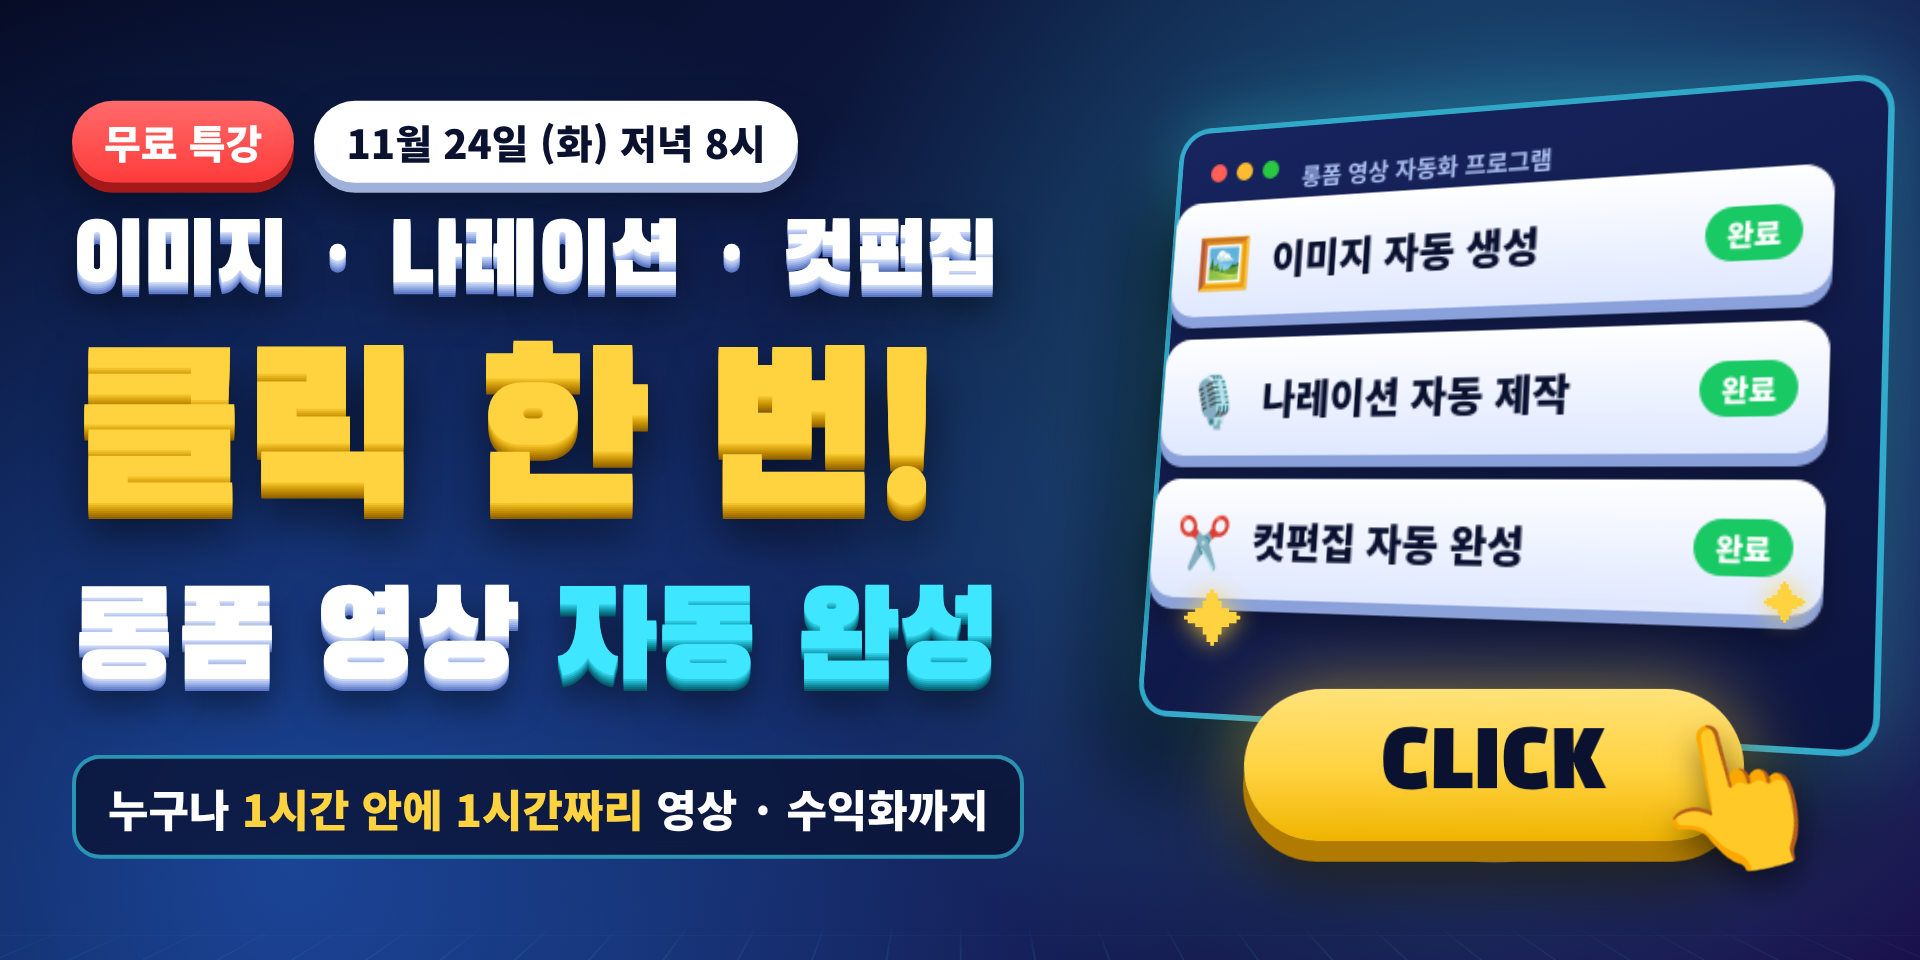
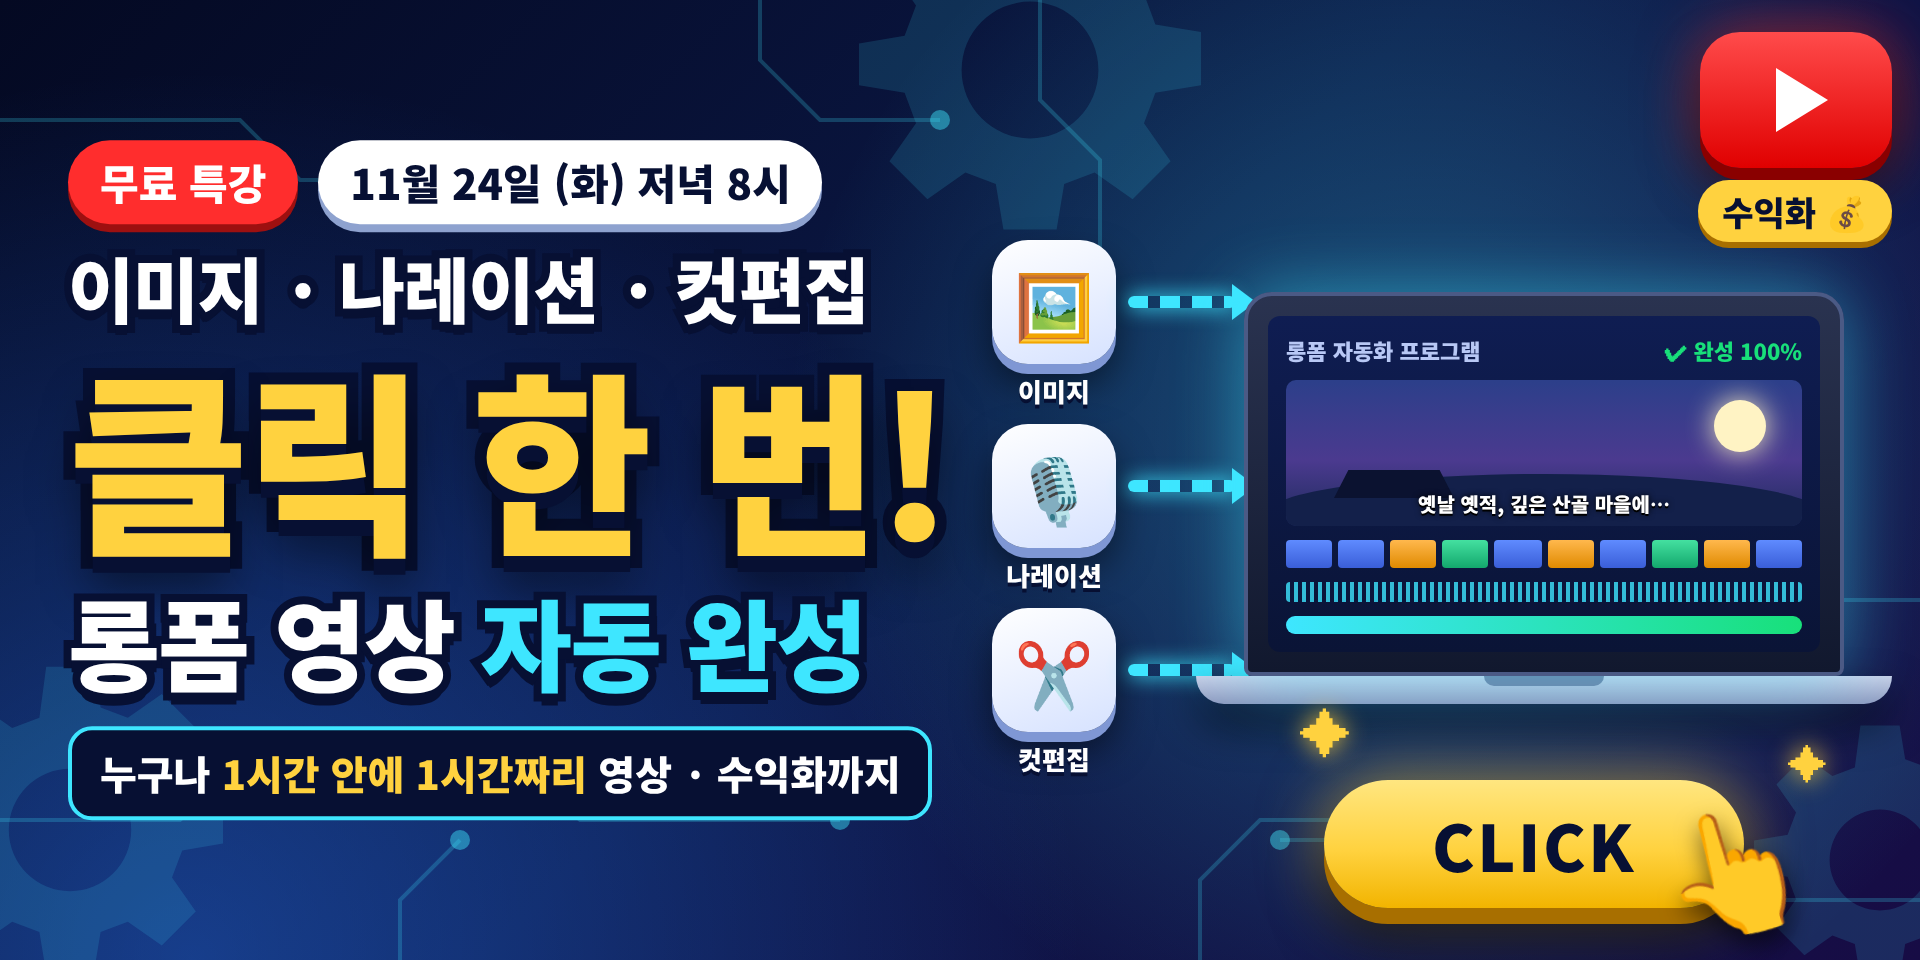
3D 썸네일: 글자를 또렷하게, 자동화 배경·노트북·유튜브 로고 추가
Claude-Session: https://claude.ai/code/session_013xUGefzZAysaz3RxF6ietr

diff --git a/standalone/thumb3d/source.html b/standalone/thumb3d/source.html
@@ -3,135 +3,153 @@
 <head>
 <meta charset="utf-8">
 <title>롱폼 자동화 특강 썸네일</title>
-<link rel="stylesheet" href="https://fonts.googleapis.com/css2?family=Black+Han+Sans&family=Noto+Sans+KR:wght@700;900&display=swap">
+<link rel="stylesheet" href="https://fonts.googleapis.com/css2?family=Noto+Sans+KR:wght@700;900&display=swap">
 <style>
-  /* 960×480 (가로 8 : 세로 4) 썸네일 — 왼쪽 3D 입체 문구, 오른쪽 기울어진 프로그램 화면 + 3D 클릭 버튼 */
+  /* 960×480 (가로 8 : 세로 4) — 왼쪽 또렷한 굵은 문구, 오른쪽 재료 3종 → 노트북 자동 편집 → 유튜브 */
   :root {
-    --ink: #0a1230;
-    --deep: #101c4a;
+    --ink: #071033;
+    --navy: #0b1846;
     --blue: #2b7bff;
     --cyan: #3ee6ff;
     --gold: #ffd23f;
-    --gold-dark: #b07b00;
-    --red: #ff3b3b;
+    --gold-edge: #a86f00;
+    --red: #ff2d2d;
     --white: #ffffff;
-    --display: "Black Han Sans", "Noto Sans KR", sans-serif;
-    --body: "Noto Sans KR", sans-serif;
+    --font: "Noto Sans KR", sans-serif;
   }
   * { box-sizing: border-box; margin: 0; }
   body { background: #000; }
   .thumb {
-    position: relative; width: 960px; height: 480px; overflow: hidden; font-family: var(--body); color: var(--white);
+    position: relative; width: 960px; height: 480px; overflow: hidden; font-family: var(--font); color: var(--white);
     background:
-      radial-gradient(circle at 78% 40%, rgba(62, 230, 255, .35), transparent 45%),
-      radial-gradient(circle at 15% 90%, rgba(43, 123, 255, .45), transparent 50%),
-      linear-gradient(135deg, #060b24 0%, var(--deep) 55%, #1a0f4a 100%);
+      radial-gradient(circle at 74% 46%, rgba(62, 230, 255, .30), transparent 42%),
+      radial-gradient(circle at 10% 100%, rgba(43, 123, 255, .40), transparent 45%),
+      linear-gradient(135deg, #040922 0%, var(--navy) 50%, #170c45 100%);
   }
-  /* 바닥 격자: 3D 공간감 */
-  .floor {
-    position: absolute; left: -20%; right: -20%; bottom: -60px; height: 260px;
-    background-image:
-      linear-gradient(rgba(62, 230, 255, .35) 1px, transparent 1px),
-      linear-gradient(90deg, rgba(62, 230, 255, .35) 1px, transparent 1px);
-    background-size: 48px 48px;
-    transform: perspective(500px) rotateX(62deg); transform-origin: bottom;
-    mask-image: linear-gradient(to top, #000 10%, transparent 90%);
-  }
+  .bg { position: absolute; inset: 0; }
+  .gear { position: absolute; color: rgba(62, 230, 255, .14); }
 
-  /* 왼쪽 문구 */
-  .left { position: absolute; left: 36px; top: 50%; transform: translateY(-50%); width: 520px; display: flex; flex-direction: column; gap: 16px; }
-  .badges { display: flex; gap: 10px; align-items: center; }
-  .free {
-    background: linear-gradient(180deg, #ff6a6a, var(--red)); padding: 6px 16px; border-radius: 999px;
-    font-weight: 900; font-size: 20px; box-shadow: 0 5px 0 #a51919, 0 10px 20px rgba(0,0,0,.4);
-  }
-  .date {
-    background: var(--white); color: var(--ink); padding: 6px 16px; border-radius: 999px; font-weight: 900; font-size: 20px;
-    box-shadow: 0 5px 0 #9fb1d9, 0 10px 20px rgba(0,0,0,.4);
-  }
-  .t3d { font-family: var(--display); line-height: 1.02; letter-spacing: -0.01em; }
-  .l1 {
-    font-size: 44px; color: var(--white); white-space: nowrap;
-    text-shadow: 0 1px 0 #c9d6f5, 0 2px 0 #b3c4ee, 0 3px 0 #9db2e6, 0 4px 0 #879fdd, 0 5px 0 #6f8ad2, 0 6px 0 #5b77c6,
-      0 12px 18px rgba(0,0,0,.55);
-  }
-  .l2 {
-    font-size: 104px; color: var(--gold);
-    text-shadow: 0 1px 0 #f2c22a, 0 2px 0 #e6b31c, 0 3px 0 #d9a512, 0 4px 0 #cc970a, 0 5px 0 #bf8a04, 0 6px 0 var(--gold-dark),
-      0 7px 0 #a06f00, 0 8px 0 #8f6200, 0 16px 24px rgba(0,0,0,.6);
-  }
-  .l3 {
-    font-size: 62px; color: var(--white);
-    text-shadow: 0 1px 0 #c9d6f5, 0 2px 0 #b3c4ee, 0 3px 0 #9db2e6, 0 4px 0 #879fdd, 0 5px 0 #6f8ad2, 0 6px 0 #5b77c6,
-      0 12px 18px rgba(0,0,0,.55);
-  }
-  .l3 em { font-style: normal; color: var(--cyan);
-    text-shadow: 0 1px 0 #2ccbe3, 0 2px 0 #20b3ca, 0 3px 0 #179cb1, 0 4px 0 #0f8598, 0 5px 0 #0a6f80, 0 6px 0 #065a68, 0 12px 18px rgba(0,0,0,.55); }
-  .sub {
-    margin-top: 8px; align-self: flex-start; background: rgba(10, 18, 48, .75); border: 2px solid rgba(62, 230, 255, .6);
-    border-radius: 14px; padding: 8px 16px; font-weight: 900; font-size: 22px; backdrop-filter: blur(4px);
-  }
+  /* 왼쪽 문구: 단단한 외곽선 + 한 겹 그림자로 또렷하게 */
+  .left { position: absolute; left: 34px; top: 50%; transform: translateY(-50%); width: 480px; display: flex; flex-direction: column; gap: 12px; z-index: 3; }
+  .badges { display: flex; gap: 10px; }
+  .free { background: var(--red); padding: 6px 16px; border-radius: 999px; font-weight: 900; font-size: 21px; box-shadow: 0 4px 0 #9d1010; }
+  .date { background: var(--white); color: var(--ink); padding: 6px 16px; border-radius: 999px; font-weight: 900; font-size: 21px; box-shadow: 0 4px 0 #8ea2cf; }
+  .t { font-weight: 900; line-height: 1.08; letter-spacing: -0.02em; paint-order: stroke fill; -webkit-text-stroke: 8px var(--ink); }
+  .l1 { font-size: 36px; text-shadow: 0 5px 0 var(--ink); }
+  .l2 { font-size: 98px; color: var(--gold); -webkit-text-stroke: 12px var(--ink); text-shadow: 0 8px 0 var(--ink), 0 14px 24px rgba(0,0,0,.6); }
+  .l3 { font-size: 50px; text-shadow: 0 6px 0 var(--ink); }
+  .l3 em { font-style: normal; color: var(--cyan); }
+  .sub { margin-top: 4px; align-self: flex-start; background: var(--ink); border: 2px solid var(--cyan); border-radius: 12px; padding: 7px 14px; font-weight: 900; font-size: 20px; }
   .sub b { color: var(--gold); }
 
-  /* 오른쪽 3D 화면 */
-  .stage { position: absolute; right: 18px; top: 46px; width: 390px; height: 380px; perspective: 900px; }
-  .screen {
-    position: absolute; inset: 0 0 60px 0; border-radius: 18px; padding: 18px 18px 16px;
-    background: linear-gradient(160deg, #17245e, #0c1540); border: 3px solid rgba(62, 230, 255, .7);
-    transform: rotateY(-22deg) rotateX(8deg); transform-style: preserve-3d;
-    box-shadow: -20px 30px 50px rgba(0,0,0,.6), 0 0 40px rgba(62, 230, 255, .35);
-    display: flex; flex-direction: column; gap: 12px;
-  }
-  .bar { display: flex; gap: 6px; }
-  .bar i { width: 10px; height: 10px; border-radius: 50%; background: #ff5f57; }
-  .bar i:nth-child(2) { background: #febc2e; } .bar i:nth-child(3) { background: #28c840; }
-  .bar span { margin-left: 8px; font-size: 13px; font-weight: 700; color: #a9bcef; }
-  .tile {
-    display: flex; align-items: center; gap: 12px; padding: 12px 14px; border-radius: 14px;
-    background: linear-gradient(180deg, #ffffff, #dfe8ff); color: var(--ink);
-    box-shadow: 0 6px 0 #8aa1db, 0 12px 18px rgba(0,0,0,.35);
-    font-weight: 900; font-size: 21px; transform: translateZ(30px);
-  }
-  .tile .ic { font-size: 26px; }
-  .tile .ok { margin-left: auto; background: #18c964; color: #fff; border-radius: 999px; font-size: 14px; padding: 3px 10px; }
+  /* 오른쪽 장면 */
+  .scene { position: absolute; right: 0; top: 0; width: 470px; height: 480px; z-index: 2; }
 
-  /* 3D 클릭 버튼 */
-  .click {
-    position: absolute; left: 70px; bottom: 6px; width: 250px; height: 76px; border-radius: 999px;
-    background: linear-gradient(180deg, #ffe27a, var(--gold) 55%, #f0b400);
-    box-shadow: 0 10px 0 var(--gold-dark), 0 22px 30px rgba(0,0,0,.6), 0 0 40px rgba(255, 210, 63, .55);
-    display: grid; place-items: center; font-family: var(--display); font-size: 40px; color: var(--ink);
-    transform: rotateX(18deg);
+  /* 재료 3종 아이콘 + 흐르는 화살표 */
+  .src { position: absolute; left: 6px; display: flex; align-items: center; gap: 6px; }
+  .src .ic {
+    width: 62px; height: 62px; border-radius: 18px; display: grid; place-items: center; font-size: 32px;
+    background: linear-gradient(160deg, #ffffff, #d6e2ff); box-shadow: 0 5px 0 #7f97d4, 0 10px 18px rgba(0,0,0,.5);
   }
-  .hand { position: absolute; right: 30px; bottom: -18px; font-size: 72px; transform: rotate(-12deg); filter: drop-shadow(0 8px 8px rgba(0,0,0,.5)); }
-  .ring { position: absolute; left: 195px; bottom: 36px; width: 120px; height: 120px; border-radius: 50%; border: 4px solid rgba(255,255,255,.65); transform: translate(-50%, 50%) rotateX(60deg); }
-  .spark { position: absolute; color: var(--gold); font-size: 30px; text-shadow: 0 0 12px rgba(255,210,63,.9); }
+  .src .lb { position: absolute; left: 0; top: 66px; width: 62px; text-align: center; font-size: 13px; font-weight: 900; text-shadow: 0 2px 0 var(--ink); }
+  .src .arrow { width: 54px; height: 6px; border-radius: 6px; background: repeating-linear-gradient(90deg, var(--cyan) 0 10px, transparent 10px 16px); box-shadow: 0 0 10px var(--cyan); }
+  .src .arrow::after { content: ""; position: absolute; margin-left: 52px; margin-top: -6px; border: 9px solid transparent; border-left: 12px solid var(--cyan); }
+
+  /* 노트북 */
+  .laptop { position: absolute; left: 132px; top: 146px; width: 300px; }
+  .lid {
+    position: relative; height: 192px; border-radius: 14px 14px 4px 4px; padding: 10px;
+    background: linear-gradient(180deg, #2a3350, #11182e); border: 2px solid #4b5a85;
+    box-shadow: 0 0 34px rgba(62, 230, 255, .45);
+  }
+  .screen { height: 100%; border-radius: 6px; background: linear-gradient(180deg, #0f1d52, #0a1436); padding: 9px; display: flex; flex-direction: column; gap: 7px; overflow: hidden; }
+  .scr-title { display: flex; justify-content: space-between; align-items: center; font-size: 11px; font-weight: 900; color: #b8c8f5; }
+  .scr-title span:last-child { color: #18e07a; }
+  .preview { flex: 1; border-radius: 5px; position: relative; overflow: hidden;
+    background: linear-gradient(180deg, #2c3f8a 0%, #4b3a8f 55%, #1d2b5c 100%); }
+  .moon { position: absolute; right: 18px; top: 10px; width: 26px; height: 26px; border-radius: 50%; background: #fff3c4; box-shadow: 0 0 14px #fff3c4; }
+  .hill { position: absolute; left: -10px; right: -10px; bottom: -14px; height: 40px; border-radius: 50%; background: #13204a; }
+  .roof { position: absolute; left: 24px; bottom: 14px; width: 60px; height: 14px; background: #0b1230; clip-path: polygon(0 100%, 12% 0, 88% 0, 100% 100%); }
+  .cap { position: absolute; left: 0; right: 0; bottom: 4px; text-align: center; font-size: 10px; font-weight: 900; text-shadow: 0 0 3px #000, 0 1px 0 #000; }
+  .tl { display: flex; gap: 3px; height: 14px; }
+  .tl i { flex: 1; border-radius: 2px; background: linear-gradient(180deg, #5f8bff, #3a5ed8); }
+  .tl i:nth-child(3n) { background: linear-gradient(180deg, #ffb84d, #e08a00); }
+  .tl i:nth-child(4n) { background: linear-gradient(180deg, #44e0a0, #13a86d); }
+  .wave { height: 10px; border-radius: 2px; background: repeating-linear-gradient(90deg, #3ee6ff 0 2px, transparent 2px 4px); opacity: .8; }
+  .prog { height: 9px; border-radius: 9px; background: #1c2a5e; overflow: hidden; }
+  .prog i { display: block; width: 100%; height: 100%; background: linear-gradient(90deg, var(--cyan), #18e07a); }
+  .base { height: 14px; margin: 0 -24px; border-radius: 0 0 16px 16px; background: linear-gradient(180deg, #c7d0e8, #8e9bc0); box-shadow: 0 10px 20px rgba(0,0,0,.6); }
+  .base::after { content: ""; display: block; width: 60px; height: 5px; margin: 0 auto; border-radius: 0 0 6px 6px; background: #6f7ca3; }
+
+  /* 유튜브 로고 + 수익 */
+  .yt { position: absolute; right: 14px; top: 16px; display: flex; flex-direction: column; align-items: center; gap: 6px; }
+  .yt .logo { width: 96px; height: 68px; border-radius: 20px; background: linear-gradient(180deg, #ff4b4b, #e00000); display: grid; place-items: center;
+    box-shadow: 0 6px 0 #8a0000, 0 12px 24px rgba(0,0,0,.55), 0 0 30px rgba(255, 45, 45, .6); }
+  .yt .logo::after { content: ""; margin-left: 6px; border-top: 16px solid transparent; border-bottom: 16px solid transparent; border-left: 26px solid #fff; }
+  .yt .money { font-weight: 900; font-size: 17px; background: var(--gold); color: var(--ink); padding: 3px 12px; border-radius: 999px; box-shadow: 0 3px 0 var(--gold-edge); }
+  .link { position: absolute; right: 60px; top: 118px; width: 6px; height: 40px; border-radius: 6px; background: repeating-linear-gradient(180deg, var(--cyan) 0 8px, transparent 8px 13px); box-shadow: 0 0 10px var(--cyan); transform: rotate(35deg); }
+
+  /* 클릭 버튼 */
+  .click {
+    position: absolute; left: 172px; bottom: 26px; width: 210px; height: 64px; border-radius: 999px;
+    background: linear-gradient(180deg, #ffe680, var(--gold) 55%, #f2b400);
+    box-shadow: 0 8px 0 var(--gold-edge), 0 18px 26px rgba(0,0,0,.6), 0 0 32px rgba(255, 210, 63, .6);
+    display: grid; place-items: center; font-weight: 900; font-size: 32px; color: var(--ink); letter-spacing: .04em;
+  }
+  .hand { position: absolute; left: 338px; bottom: 6px; font-size: 60px; transform: rotate(-14deg); filter: drop-shadow(0 6px 6px rgba(0,0,0,.6)); }
+  .spark { position: absolute; color: var(--gold); text-shadow: 0 0 12px rgba(255,210,63,.9); }
 </style>
 </head>
 <body>
 <div class="thumb" id="thumb">
-  <div class="floor"></div>
+  <!-- 바탕: 회로 기판 무늬 + 톱니바퀴 (자동화 느낌) -->
+  <svg class="bg" viewBox="0 0 960 480" preserveAspectRatio="none" aria-hidden="true">
+    <g fill="none" stroke="#3ee6ff" stroke-opacity=".22" stroke-width="2">
+      <path d="M0 60 H120 L150 90 H300"/><path d="M0 410 H90 L120 380 H260 L290 410 H420"/>
+      <path d="M520 0 V50 L550 80 V160"/><path d="M960 300 H860 L830 330 H700"/><path d="M960 450 H820 L790 420 H640"/>
+      <path d="M380 0 V30 L410 60 H470"/><path d="M600 480 V440 L630 410 H700"/><path d="M200 480 V450 L230 420"/>
+    </g>
+    <g fill="#3ee6ff" fill-opacity=".45">
+      <circle cx="300" cy="90" r="5"/><circle cx="420" cy="410" r="5"/><circle cx="550" cy="160" r="5"/><circle cx="700" cy="330" r="5"/>
+      <circle cx="640" cy="420" r="5"/><circle cx="470" cy="60" r="5"/><circle cx="700" cy="410" r="5"/><circle cx="230" cy="420" r="5"/>
+    </g>
+  </svg>
+  <svg class="gear" style="left:420px;top:-60px;width:190px;height:190px" viewBox="0 0 100 100" aria-hidden="true"><path fill="currentColor" d="M43 2h14l2 12 8 3 10-7 10 10-7 10 3 8 12 2v14l-12 2-3 8 7 10-10 10-10-7-8 3-2 12H43l-2-12-8-3-10 7-10-10 7-10-3-8-12-2V43l12-2 3-8-7-10 10-10 10 7 8-3zM50 32a18 18 0 1 0 0 36 18 18 0 0 0 0-36z"/></svg>
+  <svg class="gear" style="left:-50px;top:330px;width:170px;height:170px" viewBox="0 0 100 100" aria-hidden="true"><path fill="currentColor" d="M43 2h14l2 12 8 3 10-7 10 10-7 10 3 8 12 2v14l-12 2-3 8 7 10-10 10-10-7-8 3-2 12H43l-2-12-8-3-10 7-10-10 7-10-3-8-12-2V43l12-2 3-8-7-10 10-10 10 7 8-3zM50 32a18 18 0 1 0 0 36 18 18 0 0 0 0-36z"/></svg>
+  <svg class="gear" style="left:870px;top:360px;width:140px;height:140px" viewBox="0 0 100 100" aria-hidden="true"><path fill="currentColor" d="M43 2h14l2 12 8 3 10-7 10 10-7 10 3 8 12 2v14l-12 2-3 8 7 10-10 10-10-7-8 3-2 12H43l-2-12-8-3-10 7-10-10 7-10-3-8-12-2V43l12-2 3-8-7-10 10-10 10 7 8-3zM50 32a18 18 0 1 0 0 36 18 18 0 0 0 0-36z"/></svg>
 
   <div class="left">
     <div class="badges"><span class="free">무료 특강</span><span class="date">11월 24일 (화) 저녁 8시</span></div>
-    <div class="t3d l1">이미지 · 나레이션 · 컷편집</div>
-    <div class="t3d l2">클릭 한 번!</div>
-    <div class="t3d l3">롱폼 영상 <em>자동 완성</em></div>
+    <div class="t l1">이미지 · 나레이션 · 컷편집</div>
+    <div class="t l2">클릭 한 번!</div>
+    <div class="t l3">롱폼 영상 <em>자동 완성</em></div>
     <div class="sub">누구나 <b>1시간 안에 1시간짜리</b> 영상 · 수익화까지</div>
   </div>
 
-  <div class="stage">
-    <div class="screen">
-      <div class="bar"><i></i><i></i><i></i><span>롱폼 영상 자동화 프로그램</span></div>
-      <div class="tile"><span class="ic">🖼</span>이미지 자동 생성<span class="ok">완료</span></div>
-      <div class="tile"><span class="ic">🎙</span>나레이션 자동 제작<span class="ok">완료</span></div>
-      <div class="tile"><span class="ic">✂</span>컷편집 자동 완성<span class="ok">완료</span></div>
+  <div class="scene">
+    <div class="src" style="top:120px"><span class="ic">🖼</span><span class="lb">이미지</span><span class="arrow"></span></div>
+    <div class="src" style="top:212px"><span class="ic">🎙</span><span class="lb">나레이션</span><span class="arrow"></span></div>
+    <div class="src" style="top:304px"><span class="ic">✂</span><span class="lb">컷편집</span><span class="arrow"></span></div>
+
+    <div class="laptop">
+      <div class="lid">
+        <div class="screen">
+          <div class="scr-title"><span>롱폼 자동화 프로그램</span><span>✔ 완성 100%</span></div>
+          <div class="preview"><div class="moon"></div><div class="hill"></div><div class="roof"></div><div class="cap">옛날 옛적, 깊은 산골 마을에…</div></div>
+          <div class="tl"><i></i><i></i><i></i><i></i><i></i><i></i><i></i><i></i><i></i><i></i></div>
+          <div class="wave"></div>
+          <div class="prog"><i></i></div>
+        </div>
+      </div>
+      <div class="base"></div>
     </div>
-    <div class="ring"></div>
+
+    <div class="yt"><div class="logo"></div><span class="money">수익화 💰</span></div>
+
     <div class="click">CLICK</div>
     <div class="hand">👆</div>
-    <span class="spark" style="left:40px;bottom:96px">✦</span>
-    <span class="spark" style="left:330px;bottom:110px;font-size:22px">✦</span>
+    <span class="spark" style="left:160px;bottom:96px;font-size:26px">✦</span>
+    <span class="spark" style="left:404px;bottom:84px;font-size:20px">✦</span>
   </div>
 </div>
 </body>
